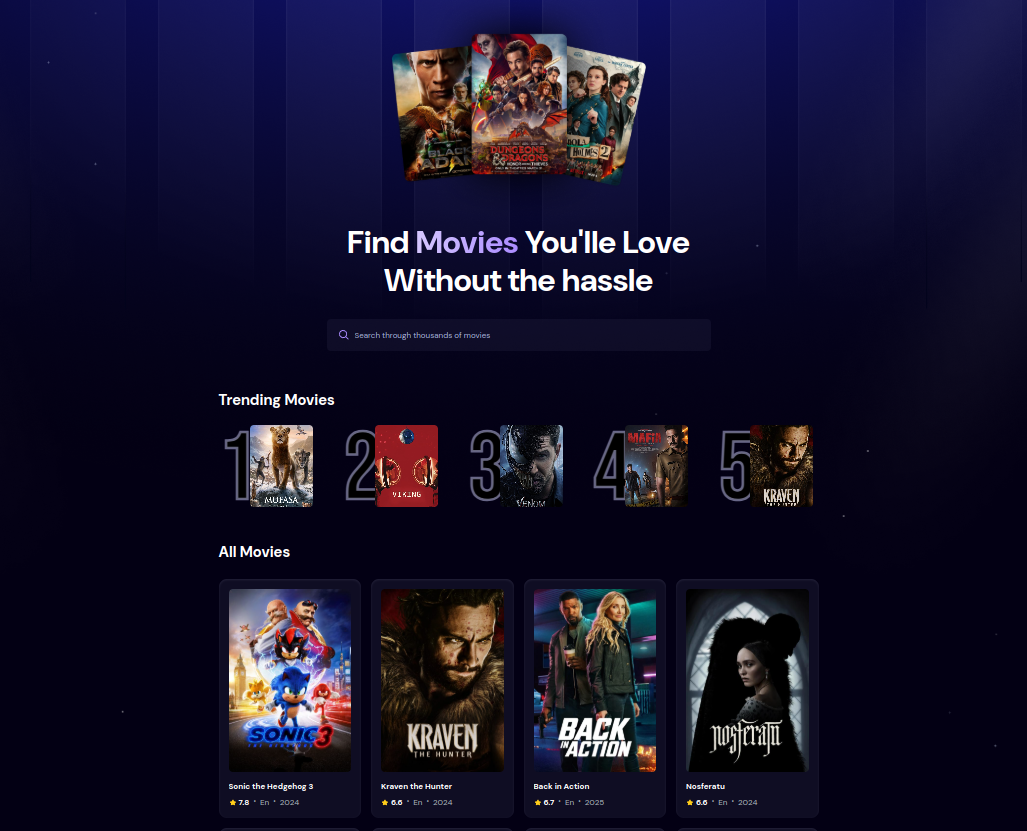
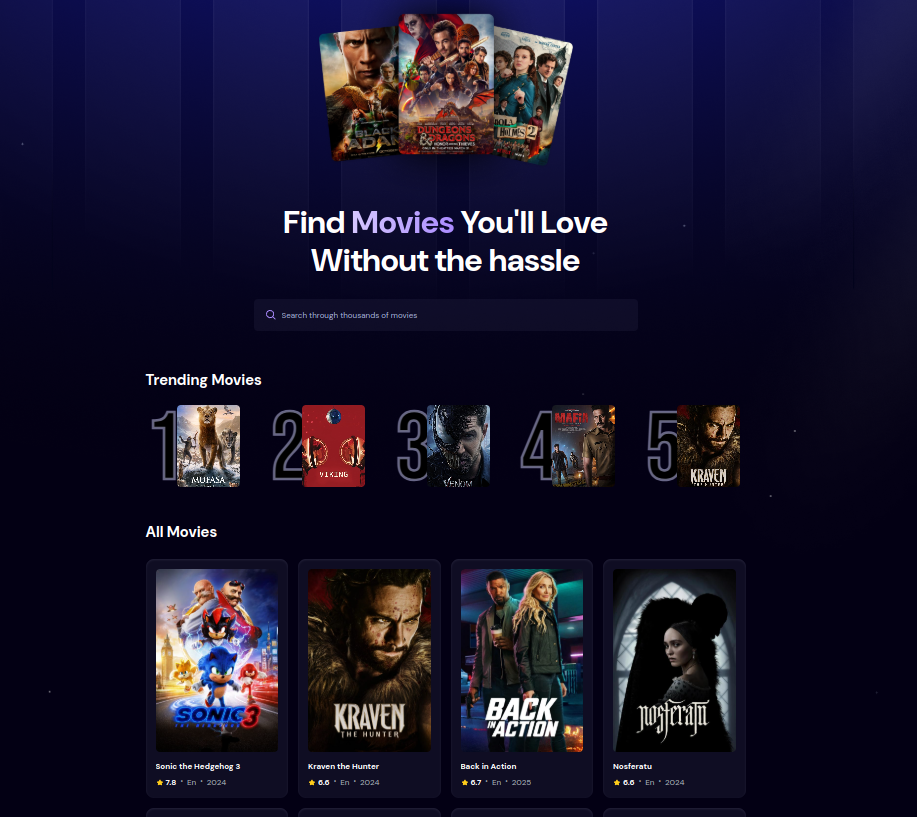
fix: Wrong Spelling In The Header

diff --git a/src/App.jsx b/src/App.jsx
@@ -94,7 +94,7 @@ const App = () => {
       <header>
 
         <img src='./hero.png' alt='Hero Banner'></img>
-        <h1>Find <span className='text-gradient'>Movies</span> You'lle Love
+        <h1>Find <span className='text-gradient'>Movies</span> You'll Love
          Without the hassle</h1>
          <Search searchTerm={searchTerm} setSearchTerm={setSearchTerm}/>
       </header>
